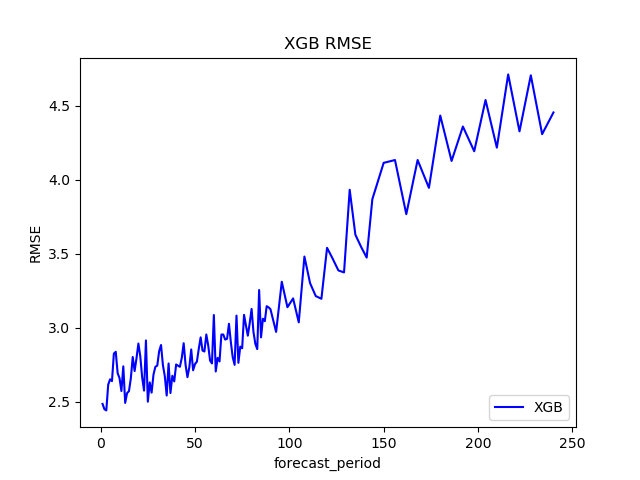
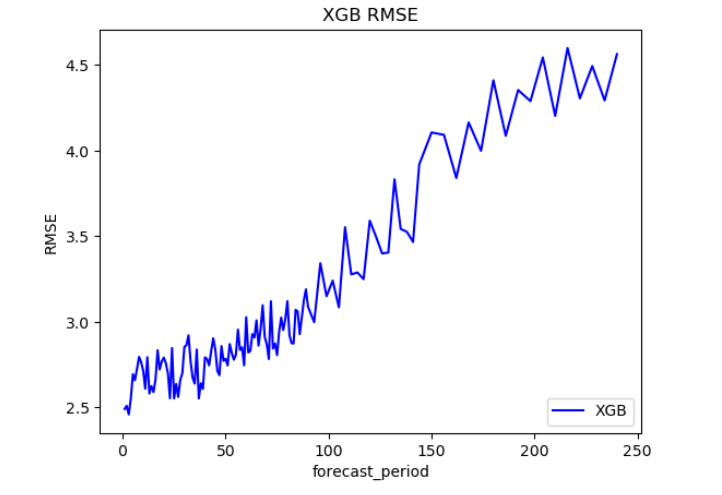
refined_model_sep2023

Changed region(s): [[0.0312, 0.0625, 0.9062, 1.0], [0.1562, 0.0, 0.875, 0.125]]

diff --git a/src/rail_temp_ML_model.py b/src/rail_temp_ML_model.py
@@ -1,9 +1,13 @@
-# This program develops the ML model for predictiong the rail temperature
+### This program trains the ML model for predicting the rail_track temperature
+
+import matplotlib
+import matplotlib.pyplot as plt
 
 import pandas as pd
 import numpy as np 
-import matplotlib.pyplot as plt
+
 import time
+import datetime
 
 from sklearn import linear_model
 from sklearn.model_selection import train_test_split
@@ -26,99 +30,102 @@ from xgboost import XGBRegressor
 
 import time
 import sys
-import joblib
 import matplotlib.pyplot as plt
 import seaborn as sns
+import math
 import shap
+import joblib
 
 
 def main():
-	# Load the rail temperature data for the Väylävirasto stations along with 	 # the forecast data
+	df =  pd.read_csv(r'data/rail_temperatures_mos_data_sep2019_aug2023.csv', sep = ',')
 
-	df =  pd.read_csv(r'/home/daniel/projects/rails/data/rail_temperatures_mos_data.csv', sep = ',')
+	cols = ['lat', 'lon','analysis_time', 'analysis_date','forecast_time','forecast_period', 
+		'T2', 'D2', 'SKT','T_925','WS', 'LCC', 'MCC', 'coshour', 'cosmonth','sinmonth', 
+		'sinhour', 'hourly_SRR','hourly_STR', 'TRail']
+	df = df[cols]
+	df = df.dropna()
 
-	# changing the float64 data types to float32 data
-	cols = df.select_dtypes(include=[np.float64]).columns
-	df[cols] = df[cols].astype(np.float32)
+	df['month'] = pd.to_datetime(df['forecast_time']).dt.month
+	df['year'] = pd.to_datetime(df['forecast_time']).dt.year
+	df.TRail = df.TRail + 273.15
 
 
-	# changing the int64 data types to int32 data
-	cols = df.select_dtypes(include=[np.int64]).columns
-	df[cols] = df[cols].astype(np.int32)
+	# data not normalized
+    # sine, cosine hour and month variables 
+    # random splitted training and  test data 
+    # all temperature variables are in  Kelvin
+    # missing values are  removed 
 
-
-	# converting T2, D2 and SKT from degree K to degree celsius
-	df.T2= df['T2'] - 273.15
-	df.D2 = df['D2'] - 273.15
-	df.SKT = df['SKT'] - 273.15
-
-	# The predictors for the model
-	#xvar = ['lat', 'lon','forecast_period', 'T2', 'D2', 'SKT','U10', 'V10', 'sinhour', 'hourly_SRR','hourly_STR', 'hourly_SLHF', 'hourly_SSHF']
-
-	xvar = ['lat', 'lon','forecast_period', 'T2', 'D2', 'SKT', 
-        'sinhour', 'hourly_SRR','hourly_STR']
-
-	X = df.loc[:, xvar]
-	y = df.loc[:,'TRail']
-
-	# Splitting the data to training and test samples
-	from sklearn.model_selection import train_test_split
-	X_train, X_test, y_train, y_test = train_test_split(X, y, test_size=0.2)
-
-	# This dataframe we use to plot the graph of RMSE vs forecast_period
+	# this df_test dataframe is created for plotting 
 	df_test = pd.concat([X_test, y_test], axis = 1)
 
+	regressor = xgb.XGBRegressor(n_estimators=200, max_depth=15, eta=0.182, subsample=0.751, colsample_bytree=0.997, reg_alpha=0.54)
+	
+	regressor.fit(X_train, y_train)
 
-	# Training the XGB model
-	model  = xgb.XGBRegressor(n_estimators=100, max_depth=11, eta=0.3, subsample=0.7, colsample_bytree=0.8)
-
-	# Predicting using the xgb_model
-	model.fit(X_train, y_train)
-
-	y_trP = model.predict(X_train)
-	y_tsP = model.predict(X_test)
+	y_trP = regressor.predict(X_train)
+	y_tsP = regressor.predict(X_test)
 
 	print('XGB train error:', mean_squared_error(y_train,y_trP,squared=False))
 	print('XGB test error:', mean_squared_error(y_test,y_tsP,squared=False))
 
 
-	# To plot the RMSE vs lead time
-	ajat = sorted(df_test['forecast_period'].unique().tolist())
-	xgb_error = [None] * len(ajat)
+	# save the model
+	param = 'TRail'
+	joblib.dump(regressor, '../results/xgb_random_model' + param + '.joblib')
 
-	for i in range(0, len(ajat)):
+	# to plot the RMSE vs lead time for not normalized data
+
+	ajat = sorted(df_test['forecast_period'].unique().tolist())
+
+
+	xgb_error = [None] * len(ajat)
+	for i in range(0,len(ajat)):
 		tmp = df_test[df_test['forecast_period'] == ajat[i]]
 		df_x_test_ajat = tmp.drop('TRail', axis =1)
-
 		x_test_ajat = df_x_test_ajat
 		y_test_ajat = tmp['TRail']
-		y_xgb_ajat  = model.predict(x_test_ajat)
-		xgb_error[i] = mean_squared_error(y_test_ajat, y_xgb_ajat, squared=False)
+		y_xgb_ajat = regressor.predict(x_test_ajat)
+		xgb_error[i] = mean_squared_error(y_test_ajat,y_xgb_ajat,squared=False)
 
+	plt.close()
 	plt.plot(ajat, xgb_error, 'b', label="XGB")
 	plt.title("XGB RMSE")
 	plt.xlabel("forecast_period")
 	plt.ylabel("RMSE")
 	plt.legend(loc="lower right")
 
-	param = 'TRail'
-	plt.savefig('XGB_forecast_period_' + param + '_rmse.png')
-	plt.close()
+    param = 'TRail'	
+	plt.savefig('XGB_forecast_period_' + param + '.png')
 
-	# plot shap values
-	X_sub = X_test.sample(frac=0.0005)
-	shap_values = shap.Explainer(model).shap_values(X_sub)
+	#Shap values for nnot ormalized data
+	import shap
+	# take random set from test data
+	X_sub = X_test.sample(frac=0.1)
+	print(X_sub.size)
+	shap_values = shap.Explainer(regressor).shap_values(X_sub)
+	plt.close()
 	shap.summary_plot(shap_values, X_sub, plot_type="bar", show = False)
-	plt.savefig('shap_bar_' + 'rail_temp' + '.png')
-	plt.close()
-	# another plot
-	shap.summary_plot(shap_values, X_sub, show = False)
-	plt.savefig('shap_sum_' + 'rail_temp'+ '.png')
 
-	# save the model using joblib
-	joblib.dump(model, "xgb_modelv1.joblib")
-	print('The xgbmodel is saved as xgb_modelv1.joblib')
+	plt.savefig('shap_bar_' + param '.png')
+
 
 if __name__ == "__main__":
 	main()
+
+
+# Results
+# XGB train error: 1.6340721353575478
+# XGB test error: 1.6393303799561285
+# XGB test error on so far unforeseen data, i.e, Oct 2022 and Jan,Apr, Jul 2023
+# XGB testing error: 4.1234929752605565
+# Jan 2023
+# XGB testing error: 1.1988764521942834
+# April 2023
+# XGB testing error: 6.566499205956574
+# July 2023
+# XGB testing error: 3.5533725085060115
+# October 2022
+# XGB testing error: 1.6019979771691122
 

diff --git a/src/XGB_Model_bayes_search.py b/src/XGB_Model_bayes_search.py
@@ -1,0 +1,111 @@
+### This program tunes the hyperparameters using the Bayes search method
+
+import matplotlib
+import matplotlib.pyplot as plt
+
+import pandas as pd
+import numpy as np 
+
+import time
+import datetime
+
+from sklearn import linear_model
+from sklearn.model_selection import train_test_split
+from sklearn.preprocessing import StandardScaler
+from sklearn.model_selection import KFold, cross_val_score
+from sklearn.ensemble import RandomForestRegressor
+from sklearn.tree import DecisionTreeRegressor
+from sklearn.metrics import mean_squared_error
+from sklearn.inspection import permutation_importance
+from sklearn import metrics
+from sklearn.model_selection import cross_val_score
+from sklearn.linear_model import LinearRegression
+from sklearn import preprocessing
+from sklearn.preprocessing import PolynomialFeatures
+from sklearn.model_selection import RandomizedSearchCV
+from sklearn.ensemble import GradientBoostingRegressor
+
+import xgboost as xgb
+from xgboost import XGBRegressor
+
+import time
+import datetime
+import sys
+import matplotlib.pyplot as plt
+import seaborn as sns
+import math
+import shap
+
+import skopt
+from skopt.space import Real, Integer, Categorical
+from skopt import dump, load
+import sys,os,getopt
+import matplotlib.pyplot as plt
+import seaborn as sns
+import math
+import xgboost as xgb
+from xgboost import XGBRegressor
+#from MLmodify import modify 
+from skopt import BayesSearchCV 
+import warnings
+warnings.filterwarnings('ignore', message='The objective has been evaluated at this point before.')
+
+
+def main():
+
+	df =  pd.read_csv(r'data/rail_temperatures_mos_data_sep2019_aug2023.csv', sep = ',')
+
+	
+
+	cols = ['lat', 'lon','analysis_time', 'analysis_date','forecast_time','forecast_period', 
+		'T2', 'D2', 'SKT','T_925','WS', 'LCC', 'MCC', 'coshour', 'cosmonth','sinmonth', 
+		'sinhour', 'hourly_SRR','hourly_STR', 'TRail']
+	df = df[cols]
+
+	df = df.dropna()
+
+	df.TRail = df.TRail + 273.15
+	df['month'] = pd.to_datetime(df['forecast_time']).dt.month
+	df['year'] = pd.to_datetime(df['forecast_time']).dt.year
+	xvar = ['lat', 'lon','forecast_period', 'T2', 'D2', 'SKT','T_925','WS','LCC', 'MCC', 
+        'sinhour','coshour', 'sinmonth', 'cosmonth','hourly_SRR','hourly_STR', 'month']
+
+	# Jnauary, April and July 2023 and October 2022 are taken as test data and the remaining is used as train and test in this program.  
+
+	df_test = df[((df['year'] == 2023) & ((df['month']== 1) | (df ['month']== 4) | (df['month']== 7)) | ((df['year'] == 2022) & (df['month']== 10))) ]
+	df_train = df[~((df['year'] == 2023) & ((df['month']== 4) | (df ['month']== 5) | (df['month']== 6)| (df['month']== 7)))]
+
+
+	X = df_train.loc[:, xvar]
+	y = df_train.loc[:,'TRail']
+
+	# The training and test data are randomly split on the ratio 0.8:0.2
+	X_train, X_test, y_train, y_test = train_test_split(X, y, test_size=0.2)
+
+
+	start_time = datetime.datetime.now()
+
+	optimizer_kwargs = {'acq_func_kwargs':{"xi": 10, "kappa": 10}}
+	space  = {'max_depth':Integer(5, 15),
+			'learning_rate':Real(0.05, 0.55, "uniform"),
+			'colsample_bytree':Real(0.1,1,'uniform'),
+			'subsample': Real(0.4, 1, "uniform"),
+			'reg_alpha': Real(1e-9, 1,'uniform'),
+			'n_estimators': Integer(40, 200)}
+	bsearch = BayesSearchCV(estimator = xgb.XGBRegressor(random_state=10), #GradientBoostingRegressor(random_state=10), 
+	search_spaces = space, scoring='neg_mean_absolute_error',n_jobs=6, n_iter=100, cv=5, optimizer_kwargs=optimizer_kwargs)
+	bsearch.fit(X_test,y_test)
+	end_time = datetime.datetime.now()
+	elapsed_time = end_time - start_time
+	print(elapsed_time)
+
+	dump(bsearch,'Bayes_results_' + 'TRail' + '_new.pkl')
+	print("Best Score is: ", bsearch.best_score_, "\n")
+	print("Best Parameters: ", bsearch.best_params_, "\n")
+
+
+
+if __name__ == "__main__":
+	main()
+
+
